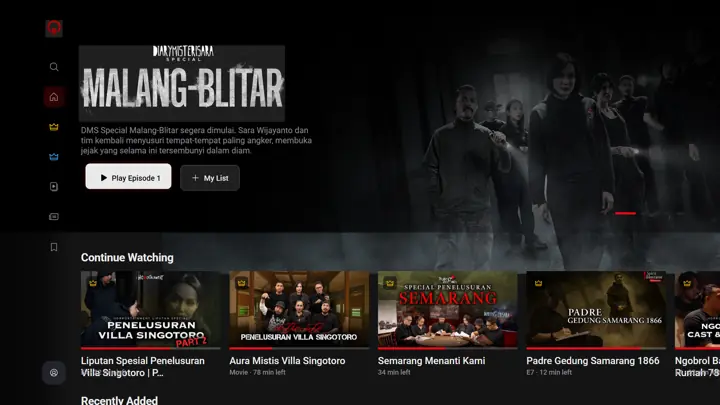
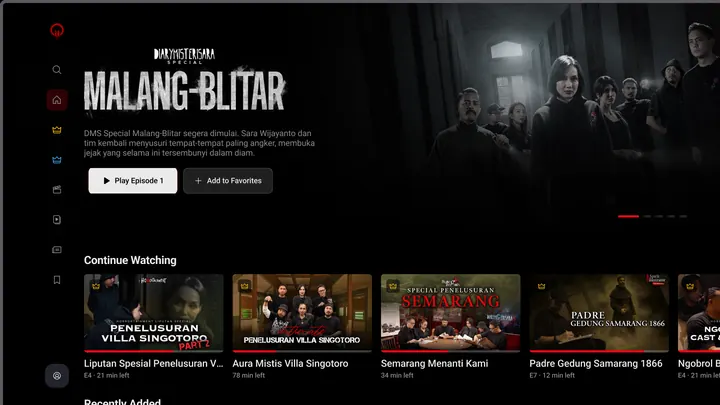
Replace TV and UNTUKU screens with Figma exports, add roadmap per project and site links

diff --git a/main.js b/main.js
@@ -31,7 +31,7 @@
       "contact.copy": "Copy email address", copied: "Copied to clipboard.", copyFail: "Could not copy. Select the address above instead.",
       "foot.top": "Back to top",
       "case.close": "Close",
-      role: "Role", when: "When", stack: "Stack", link: "Live site", next: "Next project",
+      role: "Role", when: "When", stack: "Stack", link: "Live site", next: "Next project", visit: "Visit", newTab: "opens in a new tab",
       imgFail: "Image did not load."
     },
     id: {
@@ -59,7 +59,7 @@
       "contact.copy": "Salin alamat email", copied: "Tersalin ke clipboard.", copyFail: "Gagal menyalin. Pilih alamat di atas secara manual.",
       "foot.top": "Kembali ke atas",
       "case.close": "Tutup",
-      role: "Peran", when: "Waktu", stack: "Teknologi", link: "Situs", next: "Proyek berikutnya",
+      role: "Peran", when: "Waktu", stack: "Teknologi", link: "Situs", next: "Proyek berikutnya", visit: "Kunjungi", newTab: "terbuka di tab baru",
       imgFail: "Gambar gagal dimuat."
     }
   };
@@ -98,9 +98,17 @@
         id: "Dua jalur reservasi. <span>Pasien lama</span> langsung terkonfirmasi lewat nomor HP. <span>Pasien baru</span> menjawab pertanyaan skrining yang menjadi draf anamnesis untuk dokter."
       },
       shots: [
-        { src: "untuku-erm", cls: "", cap: { en: "Staff reservation board: confirm or reject each incoming booking.", id: "Papan reservasi staf: konfirmasi atau tolak tiap reservasi masuk." } },
-        { src: "untuku-slot", cls: "half phone", cap: { en: "Patient picks a date and a free slot.", id: "Pasien memilih tanggal dan slot kosong." } },
-        { src: "untuku-done", cls: "half phone", cap: { en: "Booking received, waiting for clinic confirmation.", id: "Reservasi diterima, menunggu konfirmasi klinik." } }
+        { src: "untuku-cover", cls: "", cap: { en: "Staff dashboard: today's queue, doctors on duty, and monthly numbers.", id: "Dashboard staf: antrean hari ini, dokter praktik, dan angka bulanan." } },
+        { src: "untuku-anam", cls: "half", cap: { en: "Examination starts with anamnesis, with an allergy warning on top.", id: "Pemeriksaan dimulai dari anamnesis, dengan peringatan alergi di atas." } },
+        { src: "untuku-odonto", cls: "half", cap: { en: "Odontogram with FDI notation per tooth surface.", id: "Odontogram dengan notasi FDI per permukaan gigi." } }
+      ],
+      phonesTitle: { en: "Patient booking on mobile", id: "Reservasi pasien di ponsel" },
+      phones: [
+        { src: "untuku-pas1", cap: { en: "1. Choose a treatment", id: "1. Pilih perawatan" } },
+        { src: "untuku-pas3", cap: { en: "2. Pick a date and slot", id: "2. Pilih tanggal dan jam" } },
+        { src: "untuku-pas6", cap: { en: "3a. Returning patient: pick from the list", id: "3a. Pasien lama: pilih dari daftar" } },
+        { src: "untuku-pas7", cap: { en: "3b. New patient: data and screening", id: "3b. Pasien baru: data dan skrining" } },
+        { src: "untuku-pas8", cap: { en: "4. Confirmed with a booking code", id: "4. Terkonfirmasi dengan kode booking" } }
       ]
     },
     {
@@ -208,8 +216,11 @@
       },
       shots: [
         { src: "tv-home", cls: "", cap: { en: "Home with continue watching.", id: "Beranda dengan lanjutkan menonton." } },
-        { src: "tv-pair", cls: "half", cap: { en: "Sign in with a QR code or email code.", id: "Masuk dengan kode QR atau kode email." } },
-        { src: "tv-detail", cls: "half", cap: { en: "Title detail.", id: "Rincian tayangan." } }
+        { src: "tv-detail", cls: "half", cap: { en: "Title detail with one primary action.", id: "Rincian tayangan dengan satu aksi utama." } },
+        { src: "tv-pair", cls: "half", cap: { en: "Sign in with a QR code or an email code.", id: "Masuk dengan kode QR atau kode email." } },
+        { src: "tv-crown", cls: "half", cap: { en: "Blue Crown catalog, rent or buy by chapter.", id: "Katalog Blue Crown, sewa atau beli per chapter." } },
+        { src: "tv-sosok", cls: "half", cap: { en: "SosokPedia reader laid out as a book spread.", id: "Pembaca SosokPedia dalam bentuk buku terbuka." } },
+        { src: "tv-profile", cls: "", cap: { en: "Profile with member card and preferences.", id: "Profil dengan kartu member dan preferensi." } }
       ]
     },
     {
@@ -244,6 +255,45 @@
       shots: []
     }
   ];
+
+  // Roadmap phases per project: [phase EN, phase ID, items EN, items ID]. Same facts as `did`, grouped by stage.
+  const ROADS = {
+    "untuku-dental": [
+      ["Discover", "Gali", ["Interviewed dentists and admin staff", "Question list and requirements checklist"], ["Wawancara dokter dan admin", "Daftar pertanyaan dan checklist kebutuhan"]],
+      ["Define", "Rumuskan", ["Membership PRD v1 to v3", "E-RM PRD v1.0 to v1.2", "Scope and UAT acceptance criteria"], ["PRD membership v1 sampai v3", "PRD E-RM v1.0 sampai v1.2", "Cakupan dan kriteria UAT"]],
+      ["Plan", "Rencanakan", ["Architecture document", "Phased timeline and cost proposal", "Aligned with SATUSEHAT"], ["Dokumen arsitektur", "Timeline bertahap dan penawaran biaya", "Selaras dengan SATUSEHAT"]],
+      ["Design", "Rancang", ["Flows for six clinic roles in FigJam", "60+ screens in Figma"], ["Alur enam peran klinik di FigJam", "60+ layar di Figma"]],
+      ["Build", "Bangun", ["Next.js, NestJS, PostgreSQL monorepo", "WhatsApp OTP for patients"], ["Monorepo Next.js, NestJS, PostgreSQL", "OTP WhatsApp untuk pasien"]]
+    ],
+    "villa-ar-bali": [
+      ["Define", "Rumuskan", ["Business goals and product metrics", "Personas: guest, admin, owner, housekeeping"], ["Tujuan bisnis dan metrik produk", "Persona: tamu, admin, pemilik, housekeeping"]],
+      ["Scope", "Cakupan", ["Booking engine", "Xendit: QRIS, virtual account, e-wallet", "Manual transfer fallback", "Admin dashboard"], ["Booking engine", "Xendit: QRIS, virtual account, e-wallet", "Cadangan transfer manual", "Dashboard admin"]],
+      ["Design", "Rancang", ["Responsive booking flow", "Admin views for mobile"], ["Alur booking responsif", "Tampilan admin untuk ponsel"]],
+      ["Build", "Bangun", ["Next.js and PostgreSQL", "Docker on a VPS"], ["Next.js dan PostgreSQL", "Docker di VPS"]],
+      ["Launch", "Rilis", ["SEO setup with Google Search Console", "Live at villaarbali.com"], ["SEO dengan Google Search Console", "Live di villaarbali.com"]]
+    ],
+    "fajar-bahari": [
+      ["Define", "Rumuskan", ["Multi-band platform", "Solo and band modes"], ["Platform multi-band", "Mode solo dan band"]],
+      ["Rules", "Aturan", ["Confirmed dates close automatically", "Approval flow for personnel schedules"], ["Tanggal terkonfirmasi tertutup otomatis", "Alur persetujuan jadwal personel"]],
+      ["Design", "Rancang", ["Band sites and availability calendars", "Manager and personnel dashboards"], ["Situs band dan kalender ketersediaan", "Dashboard manajer dan personel"]],
+      ["Build", "Bangun", ["One Next.js app, one site per domain", "Image CMS"], ["Satu aplikasi Next.js, satu situs per domain", "CMS gambar"]],
+      ["Launch", "Rilis", ["nginx and PM2", "Live at fajarbahari.id"], ["nginx dan PM2", "Live di fajarbahari.id"]]
+    ],
+    "dms-android-tv": [
+      ["Rules", "Aturan", ["Remote focus states", "Safe areas", "Text contrast for TV distance"], ["Fokus remote", "Area aman layar", "Kontras teks untuk jarak TV"]],
+      ["System", "Sistem", ["49 color styles, 58 text styles", "140 components, four themes", "Shared with mobile"], ["49 color style, 58 text style", "140 komponen, empat tema", "Dipakai bersama mobile"]],
+      ["Screens", "Layar", ["128 screens at 1920x1080", "Home, detail, profile, My List, downloads, SosokPedia"], ["128 layar 1920x1080", "Beranda, rincian, profil, Daftar Saya, unduhan, SosokPedia"]],
+      ["Sign-in", "Masuk", ["Web-to-TV code pairing", "No typing with a remote"], ["Pairing kode dari web ke TV", "Tanpa mengetik dengan remote"]],
+      ["Handoff", "Serah terima", ["WCAG AA checks on color pairs", "Rules documented for developers"], ["Cek WCAG AA pasangan warna", "Aturan terdokumentasi untuk developer"]]
+    ],
+    "mediease": [
+      ["Research", "Riset", ["Competitive benchmarking", "Survey and user interviews", "Users aged 18 to 55"], ["Competitive benchmarking", "Survei dan wawancara pengguna", "Pengguna usia 18 sampai 55"]],
+      ["Insight", "Temuan", ["Faster booking", "Clear doctor schedules", "Simple flow"], ["Booking lebih cepat", "Jadwal dokter jelas", "Alur sederhana"]],
+      ["PRD", "PRD", ["Assumptions and MVP scope", "User stories, acceptance criteria", "Out-of-scope list"], ["Asumsi dan cakupan MVP", "User story, acceptance criteria", "Daftar di luar cakupan"]],
+      ["Roadmap", "Roadmap", ["Feature prioritization", "Quarterly OKRs"], ["Prioritas fitur", "OKR per kuartal"]],
+      ["Evaluate", "Evaluasi", ["Heuristic evaluation", "UX copy rewrite"], ["Evaluasi heuristik", "Penulisan ulang UX copy"]]
+    ]
+  };
 
   let saved = null;
   try { saved = localStorage.getItem("lang"); } catch (e) {}
@@ -336,6 +386,34 @@
   function img(src, alt, eager) {
     return `<div class="shot__img"><img src="${IMG}${src}.webp" alt="${alt}" ${eager ? "" : 'loading="lazy"'} onload="this.classList.add('ok')" onerror="this.parentNode.classList.add('err');this.parentNode.textContent='${t("imgFail")}'"></div>`;
   }
+  function road(p) {
+    const steps = ROADS[p.slug] || [];
+    const k = lang === "id" ? 1 : 0;
+    return `
+      <section class="road" aria-labelledby="road-title">
+        <div class="road__head">
+          <h3 id="road-title">${lang === "id" ? "Yang saya kerjakan" : "What I did"}</h3>
+          <p>${lang === "id" ? "Peta kerja saya di proyek ini, tahap demi tahap." : "My work on this project, stage by stage."}</p>
+        </div>
+        <ol class="road__list" style="--n:${steps.length}">
+          ${steps.map((s, i) => `
+            <li class="road__step" style="--i:${i}">
+              <span class="road__dot" aria-hidden="true">${String(i + 1).padStart(2, "0")}</span>
+              <h4>${s[k]}</h4>
+              <ul>${s[2 + k].map(x => `<li>${x}</li>`).join("")}</ul>
+            </li>`).join("")}
+        </ol>
+      </section>`;
+  }
+  let roadIO = null;
+  function watchRoad() {
+    const r = $(".road", body);
+    if (!r) return;
+    if (reduce || !("IntersectionObserver" in window)) { r.classList.add("on"); return; }
+    if (roadIO) roadIO.disconnect();
+    roadIO = new IntersectionObserver(es => es.forEach(e => { if (e.isIntersecting) { e.target.classList.add("on"); roadIO.disconnect(); } }), { root: scroller, threshold: .25 });
+    roadIO.observe(r);
+  }
   function renderCase(p, scrollTop = true) {
     const i = WORK.indexOf(p), nx = WORK[(i + 1) % WORK.length];
     const facts = [
@@ -350,15 +428,18 @@
     body.innerHTML = `
       <p class="case__kicker">${L(p.kicker)}</p>
       <h2 class="case__title" id="case-title">${p.title}</h2>
+      ${p.url ? `<a class="case__visit" href="${p.url}" target="_blank" rel="noopener">${t("visit")} ${p.url.replace("https://", "")}<span aria-hidden="true"> ↗</span><span class="sr"> (${t("newTab")})</span></a>` : ""}
       <dl class="case__facts">${facts.map(([a, b]) => `<div><dt>${a}</dt><dd>${b}</dd></div>`).join("")}</dl>
       ${hero}
       <section class="case__sec"><h3>${lang === "id" ? "Konteks" : "Context"}</h3><div>${L(p.context).map(x => `<p>${x}</p>`).join("")}</div></section>
       ${targets}
-      <section class="case__sec"><h3>${lang === "id" ? "Yang saya kerjakan" : "What I did"}</h3><ul>${L(p.did).map(x => `<li>${x}</li>`).join("")}</ul></section>
+      ${road(p)}
       <p class="case__quote">${L(p.decision)}</p>
+      ${p.phones ? `<section class="phones"><h3>${L(p.phonesTitle)}</h3><div class="phones__row" tabindex="0" aria-label="${L(p.phonesTitle)}">${p.phones.map(s => `<figure>${img(s.src, L(s.cap))}<figcaption>${L(s.cap)}</figcaption></figure>`).join("")}</div></section>` : ""}
       ${p.shots.some(s => s.src !== p.cover) ? `<div class="shots">${p.shots.filter(s => s.src !== p.cover).map(s => `<figure class="${s.cls}">${img(s.src, L(s.cap))}<figcaption>${L(s.cap)}</figcaption></figure>`).join("")}</div>` : ""}
       <button type="button" class="case__next" data-slug="${nx.slug}"><small>${t("next")}</small><strong>${nx.title}</strong></button>`;
     if (scrollTop) scroller.scrollTop = 0;
+    watchRoad();
   }
 
   function openCase(slug) {

diff --git a/style.css b/style.css
@@ -289,6 +289,53 @@ body:not(.is-loading) .hero .line > span { transform: none; }
 .case__sec ul { margin: 0; padding: 0; list-style: none; max-width: 62ch; }
 .case__sec li { padding: 12px 0 12px 28px; border-top: 1px solid var(--line); position: relative; }
 .case__sec li::before { content: ""; position: absolute; left: 0; top: 1.25em; width: 12px; height: 1px; background: var(--key); }
+.sr { position: absolute; width: 1px; height: 1px; overflow: hidden; clip: rect(0 0 0 0); white-space: nowrap; }
+.case__visit {
+  display: inline-flex; align-items: center; min-height: 48px; margin-top: 24px; padding: 0 22px;
+  background: var(--key); color: var(--bg); border-radius: 4px; font-weight: 600; text-decoration: none;
+  transition: background .25s;
+}
+.case__visit:hover { background: var(--ink); }
+
+/* Roadmap: a line that draws left to right when it scrolls in, each stage lighting up in order. */
+.road { padding: clamp(48px, 8vw, 112px) 0; border-bottom: 1px solid var(--line); }
+.road__head { display: flex; justify-content: space-between; align-items: baseline; gap: 8px 32px; flex-wrap: wrap; margin-bottom: clamp(32px, 5vw, 64px); }
+.road__head h3 { margin: 0; font: 700 clamp(24px, 2.4vw, 36px)/1.05 var(--display); }
+.road__head p { margin: 0; color: var(--muted); font-size: 15px; }
+.road__list {
+  list-style: none; margin: 0; padding: 0; position: relative;
+  display: grid; grid-template-columns: repeat(var(--n), minmax(0, 1fr)); gap: clamp(16px, 2vw, 32px);
+}
+.road__list::before, .road__list::after {
+  content: ""; position: absolute; left: 0; right: 0; top: 21px; height: 2px; background: var(--line);
+}
+.road__list::after { background: var(--key); transform: scaleX(0); transform-origin: left; transition: transform 1.6s var(--ease); }
+.road.on .road__list::after { transform: scaleX(1); }
+.road__step { position: relative; opacity: .25; transform: translateY(16px); transition: opacity .6s var(--ease), transform .6s var(--ease); transition-delay: calc(var(--i) * .25s + .2s); }
+.road.on .road__step { opacity: 1; transform: none; }
+.road__dot {
+  position: relative; z-index: 1; display: grid; place-content: center;
+  width: 44px; height: 44px; border-radius: 50%;
+  background: var(--bg); border: 2px solid var(--line); color: var(--muted);
+  font: 600 14px/1 var(--text); font-variant-numeric: tabular-nums;
+  transition: border-color .4s, background .4s, color .4s; transition-delay: inherit;
+}
+.road.on .road__dot { border-color: var(--key); background: var(--key); color: var(--bg); }
+.road__step h4 { margin: 20px 0 10px; font: 700 clamp(20px, 1.7vw, 26px)/1.1 var(--display); }
+.road__step ul { margin: 0; padding: 0; list-style: none; }
+.road__step li { padding: 8px 0; border-top: 1px solid var(--line); color: var(--muted); font-size: 15px; line-height: 1.45; }
+
+.phones { padding: clamp(48px, 8vw, 112px) 0 0; }
+.phones h3 { margin: 0 0 clamp(24px, 3vw, 40px); font: 700 clamp(24px, 2.4vw, 36px)/1.05 var(--display); }
+.phones__row { display: grid; grid-template-columns: repeat(5, minmax(0, 1fr)); gap: clamp(12px, 1.6vw, 24px); align-items: start; }
+.phones__row figure { margin: 0; }
+.phones__row .shot__img { border-radius: 14px; }
+.phones__row figcaption { margin-top: 10px; font-size: 14px; color: var(--muted); }
+@media (max-width: 900px) {
+  .phones__row { grid-template-columns: none; grid-auto-flow: column; grid-auto-columns: minmax(200px, 44%); overflow-x: auto; scroll-snap-type: x mandatory; padding-bottom: 12px; }
+  .phones__row figure { scroll-snap-align: start; }
+}
+
 .case__quote {
   margin: 0; padding: clamp(56px, 9vw, 128px) 0; max-width: 24ch;
   font: 600 clamp(28px, 4.2vw, 64px)/1.08 var(--display); letter-spacing: -.02em;
@@ -331,6 +378,17 @@ body.case-open { overflow: hidden; }
   .case__facts { grid-template-columns: repeat(2, minmax(0, 1fr)); }
   .shots figure.third { grid-column: span 6; }
   .shots figure.wide { grid-column: span 12; }
+}
+
+/* Narrow screens: roadmap turns vertical, line runs down the left */
+@media (max-width: 900px) {
+  .road__list { grid-template-columns: 1fr; gap: 0; padding-left: 64px; }
+  .road__list::before, .road__list::after { left: 21px; right: auto; top: 0; bottom: 0; width: 2px; height: auto; }
+  .road__list::after { transform: scaleY(0); transform-origin: top; }
+  .road.on .road__list::after { transform: scaleY(1); }
+  .road__step { padding-bottom: 32px; }
+  .road__dot { position: absolute; left: -64px; top: 0; }
+  .road__step h4 { margin-top: 8px; }
 }
 
 /* Phone */
